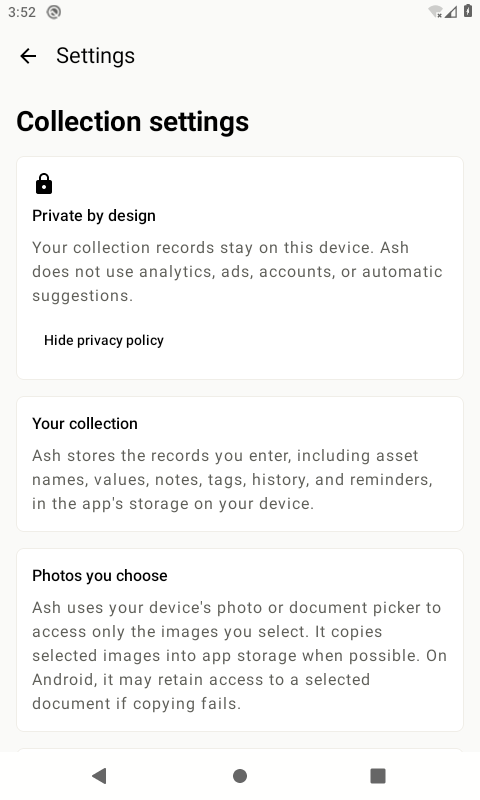
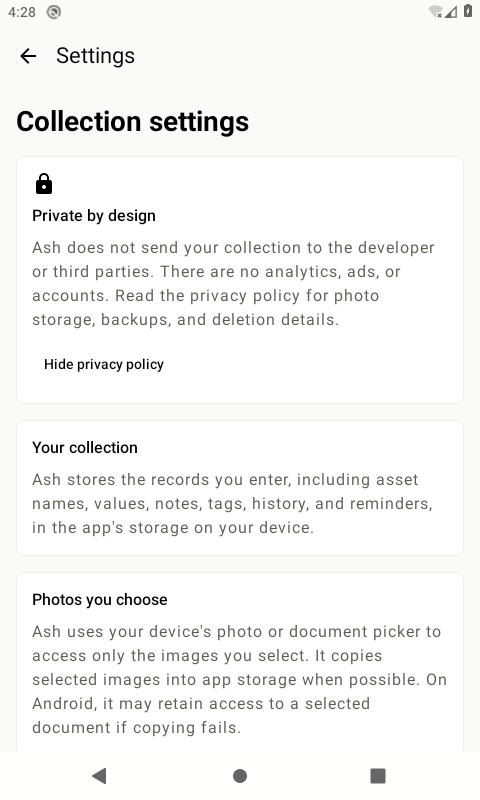
ci: publish validated Android and iOS candidate artifacts

Changed region(s): [[0.0625, 0.5, 0.9375, 0.9375], [0.0625, 0.2812, 0.9062, 0.4688], [0.0, 0.0, 0.0625, 0.0312]]

diff --git a/docs/superpowers/plans/2026-10-08-store-preparation.md b/docs/superpowers/plans/2026-10-08-store-preparation.md
@@ -1,0 +1,60 @@
+# Store preparation implementation plan
+
+> **For agentic workers:** Use superpowers:executing-plans to implement these tasks inline.
+
+**Goal:** Prepare Ash's existing Android and iOS app for store submission without claiming signing, publication, or unexecuted Xcode checks.
+
+**Architecture:** Retain the existing Kotlin Multiplatform app, identifiers and local storage. Add shared offline privacy information to Settings, repair Android release checks, and add reproducible platform release workflows and submission documentation.
+
+**Tech Stack:** Kotlin 2.2.20, Compose 1.9.1, Gradle 8.14.3, Android API 24–36, iOS 17.2+, Xcode.
+
+**Spec:** User-approved scope in this chat: prepare what is possible for both stores and push using good Git practice.
+
+## Global constraints
+- Keep Ash and com.lyheang.ash.
+- No production signing passwords/keys or invented contact details. GitHub prerelease publication is authorized; store submission is not.
+- Existing isolated cloud checkout; no new worktree.
+- Do not suppress lint errors or imply iOS compilation has run on Linux.
+- Reminders are an in-app checklist, not scheduled OS notifications.
+
+## Review focus
+- Android 24–27 image decoding uses the existing BitmapFactory fallback.
+- Theme attributes introduced at API 27 are confined to versioned resources.
+- Privacy text must distinguish app collection from OS backup and copied-photo retention.
+- Release signing checks must fail on missing credentials.
+- iOS must retain its UserDefaults privacy manifest and photo-picker access without unnecessary library permission.
+
+### Task 1: Android release checks and shared privacy
+**Files:** Android image picker and themes; shared SettingsScreen; new shared PrivacyPolicy model and existing common tests; Android backup rules.
+**Interfaces:** PrivacyPolicy.sections supplies text rendered by Settings on both platforms.
+- [x] Preserve the failing lint baseline; verify privacy text against implemented storage and backup behavior.
+- [x] Fix SDK annotations and remove redundant picker state wrapping; version the navigation-bar theme attribute.
+- [x] Add explicit Android backup exclusions and inline shared policy information.
+- [x] Run common tests and release lint; verify zero errors.
+- [x] Commit the independently validated app fixes.
+
+### Task 2: Release tooling and store materials
+**Files:** scripts/check-release.sh; .github/workflows/release-checks.yml; iOS shared scheme; docs/release/README.md, privacy-policy.md and store-listing.md; README.md.
+**Interfaces:** Release commands consume existing Gradle tasks and iosApp target; no account secrets are consumed by CI.
+- [x] Add repeatable Android validation and unsigned device iOS compile checks.
+- [x] Add a shared Xcode scheme with Release archive and no signing identity.
+- [x] Document secure signing, real feature limitations, listing text, console declarations and external account requirements.
+- [x] Validate shell, workflow structure, plist/scheme XML and metadata; run the Android release script.
+- [x] Capture actual Android screenshots; label them Android only.
+- [x] Commit the release tooling and materials.
+
+### Task 3: Whole-branch validation and push
+**Files:** Existing test/build outputs outside tracked source; release documentation.
+- [x] Run optimized Android release build, lint and shared tests; inspect test counts and bundle.
+- [x] Install a locally test-signed optimized APK on the emulator; exercise policy access and representative asset/photo persistence.
+- [x] Request one independent whole-branch review and resolve important findings.
+- [ ] Check diff, absence of secrets/generated binaries, and clean status.
+- [ ] Push release/store-preparation without force or changes to main; verify remote SHA.
+
+### Task 4: User-requested GitHub prerelease
+- [x] Package a test-signed optimized Android APK, unsigned AAB, mapping, and unsigned iOS device app.
+- [x] Gate publication on both platform builds and pushed candidate tags; no production signing keys.
+- [x] Review publication permissions and fix workflow-dispatch gating.
+- [ ] Push annotated v1.0.0-rc.1 and observe GitHub Actions; verify release assets if successful.
+
+Task 4 describes the configured pipeline; actual remote build/publication status is reported separately.

diff --git a/docs/release/README.md b/docs/release/README.md
@@ -17,7 +17,24 @@ their build numbers.
 
 The Linux cloud environment cannot run Xcode, produce an iOS archive, or validate
 Apple signing. An unsigned bundle is not ready to upload. CI is verification,
-not deployment: it contains no publishing step and requires no signing secrets.
+and requires no production signing secrets. Store deployment remains manual.
+
+## GitHub prereleases
+
+Pushing an annotated candidate tag such as `v1.0.0-rc.1` runs both platform
+checks and publishes a GitHub prerelease only after both succeed. Ordinary branch
+pushes, pull requests and manual workflow dispatches do not publish releases. The publication job alone has
+`contents: write`; build jobs retain read-only permissions.
+
+The artifacts are a debug-test-signed optimized Android APK, an unsigned Android
+bundle, its R8 mapping, and a compiled but unsigned iOS device app ZIP. These are
+developer/test artifacts, not store-signed submissions. Uploads are staged in a
+draft and made public only after all attachments are uploaded. Existing releases
+are not overwritten. Review [the prerelease notes](github-prerelease.md) before
+tagging; use a new candidate tag for each version.
+
+See [validation evidence](validation.md) for completed local checks and the
+remaining device coverage.
 
 ## Android checks
 
@@ -30,7 +47,11 @@ bash scripts/check-release.sh
 ```
 
 This must pass release lint and execute the existing shared tests before building
-an unsigned bundle. Reports are in `composeApp/build/reports/`; the bundle is
+an unsigned bundle. The script uses `-Pash.unsignedRelease=true` to prevent
+existing upload-signing settings from being used. The distribution task refuses
+this mode. `bash scripts/test-release-signing.sh` verifies that separation with
+a temporary test key, which is deleted afterward; CI runs this regression check.
+Reports are in `composeApp/build/reports/`; the bundle is
 `composeApp/build/outputs/bundle/release/composeApp-release.aab`. Preserve the
 matching `composeApp/build/outputs/mapping/release/` output for crash diagnosis.
 The CI artifact explicitly labels its bundle unsigned.

diff --git a/docs/release/validation.md b/docs/release/validation.md
@@ -1,0 +1,33 @@
+# Validation evidence
+
+Local checks on 2026-10-08, in the Linux cloud checkout:
+
+- `bash scripts/test-release-signing.sh :composeApp:assembleRelease` passed.
+  This runs release lint, the existing shared unit tests and an optimized unsigned
+  bundle build with a temporary signing key configured. The bundle remained
+  unsigned, and the distribution task correctly rejected unsigned-check mode.
+- All 9 shared tests passed, with zero failures. Release lint reported zero
+  errors and 30 warnings; warnings are not suppressed.
+- The optimized APK and unsigned bundle built successfully. Bundle ZIP integrity
+  and absence of signature blocks were checked. APK zip alignment and packaged
+  native-library 16 KB alignment were inspected.
+- A public-debug-key-signed optimized APK ran on an Android 29 x86_64 software
+  emulator. The privacy policy expanded. A selected image, asset name `Demo`,
+  and purchase value $49 were saved; the collection, value and photo remained
+  visible after force-stopping and restarting the app.
+- Shell syntax, workflow candidate/publication gates, Info.plist, privacy manifest,
+  shared Xcode scheme XML, and the opaque 1024-pixel iOS icon were checked.
+
+The screenshots in `screenshots/android/` are actual emulator captures.
+`03-demo-collection.png` uses synthetic example data and the existing Ash icon
+as its selected image. These are Android captures, not iOS store screenshots.
+
+Linux cannot compile or sign iOS. Native iOS compilation is delegated to the
+macOS GitHub Actions job; inspect the candidate-tag run before claiming it passes.
+No iOS device testing, signed archive validation, TestFlight or store submission
+has been performed locally. Android 24–27, current-target device behavior,
+actual 16 KB-page device testing, and the remaining functional/accessibility
+checks in the release guide still need device verification.
+
+The GitHub prerelease publishes only when both platform jobs succeed. An
+unsigned iOS app ZIP is a developer artifact and cannot be installed as-is.

diff --git a/docs/release/github-prerelease.md b/docs/release/github-prerelease.md
@@ -1,0 +1,25 @@
+# Ash release preparation
+
+This prerelease is for testing and developer review before store signing.
+It is published only after the Android release checks and the unsigned iOS
+device build pass in GitHub Actions.
+
+## Downloads
+
+- **ash-android-test.apk**: optimized Android app signed with a public debug key
+  for testing. It is not a Google Play upload. Debug keys can differ between
+  build machines; installing over another test build may require uninstalling
+  that build first, which deletes its app data.
+- **ash-android-unsigned.aab**: optimized unsigned Android App Bundle. Configure
+  your real upload key and run `bundleStoreRelease` before a Play upload.
+- **ash-android-mapping.zip**: R8 mapping for diagnosing this build.
+- **ash-ios-unsigned-device-build.zip**: compiled iOS device app for developers.
+  It is unsigned and cannot be installed on an iPhone or uploaded to App Store
+  Connect as-is. Use Xcode and your Apple Developer signing configuration to
+  produce a validated archive.
+- **SHA256SUMS**: checksums of the attached artifacts.
+
+The source archives include both platform projects. Read
+`docs/release/README.md` for signing, privacy-policy publication, store listing
+drafts and the remaining device tests. No production signing keys are included.
+No Play Store or App Store submission is performed by this release.
